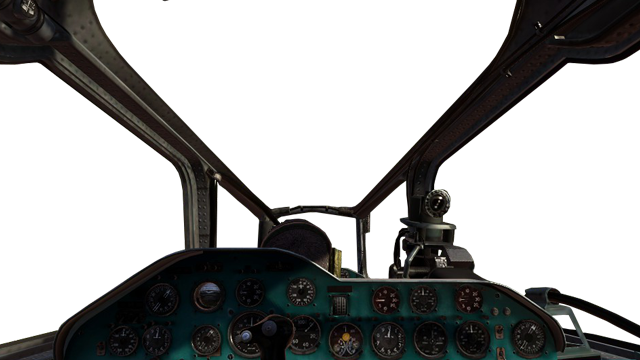
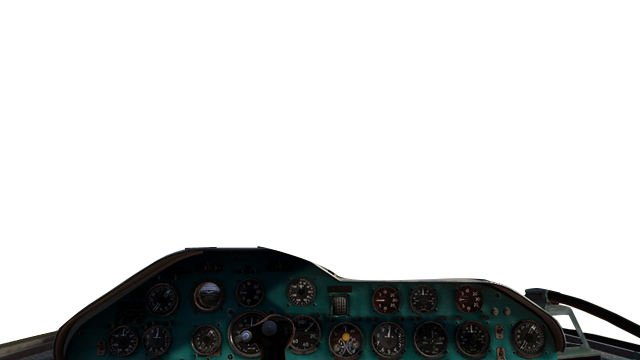
smaller kerbal

Changed region(s): [[0.0, 0.0, 1.0, 0.7944], [0.8438, 0.7944, 0.875, 0.825], [0.0938, 0.8861, 0.125, 0.9167]]

diff --git a/public/index.html b/public/index.html
@@ -275,8 +275,9 @@
     <div class="interface interface-backwards"></div>
     <div class="interface interface-left"></div>
     <div class="interface interface-right"></div>
-    <img src="Hind_Cockpit_BO.png" style="z-index:2;">
-    <img src="ksp_idle_gif.gif" style="width:128px;height:286px;position:absolute;left:50%;top:15%;z-index:1;">
+    <img src="Hind_Cockpit_BO.png" style="z-index:3;">
+    <img src="frame.png" style="z-index:1;top:0;left:0;position:absolute;">
+    <img src="ksp_idle_gif.gif" style="width:64px;height:143px;position:absolute;left:50%;top:47%;z-index:2;">
 </div>
 
 <canvas id="drawing_canvas" width="500" height="500" style="background-color: red;"></canvas>
